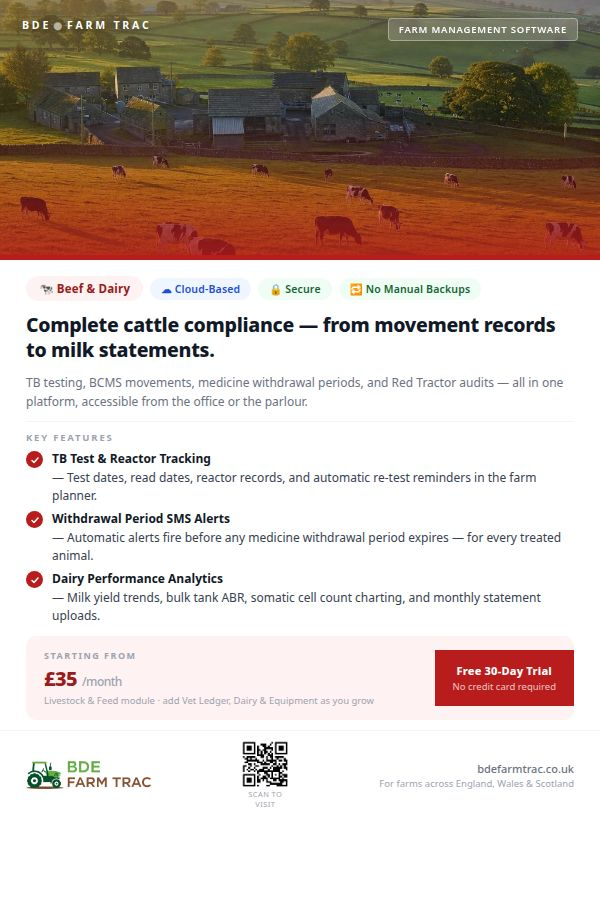
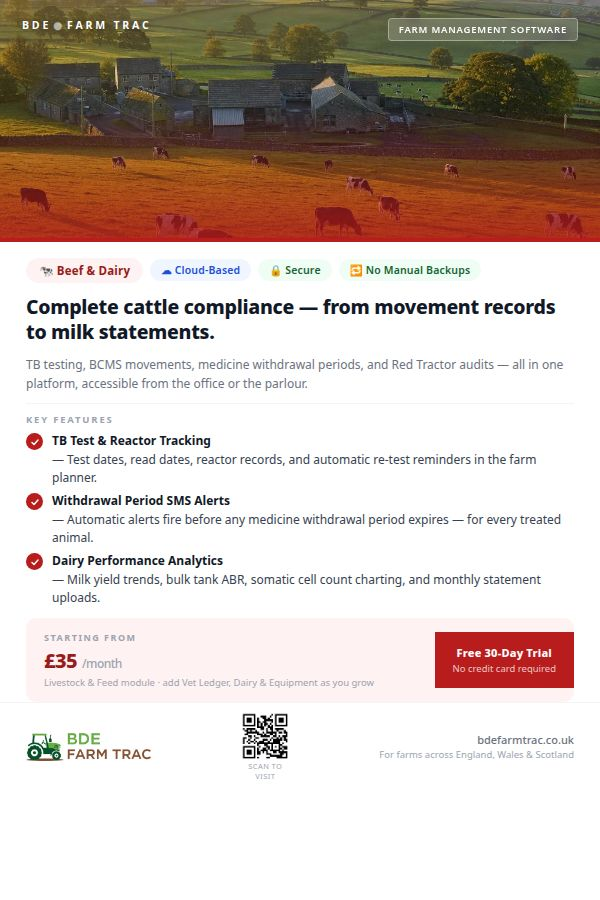
Update leaflet website assets and screenshots
Replit-Commit-Author: Agent

Changed region(s): [[0.0, 0.0, 1.0, 0.8711], [0.27, 0.7467, 0.63, 0.9022], [0.03, 0.8089, 0.24, 0.9022]]

diff --git a/artifacts/website/public/leaflets/arable-v2.html b/artifacts/website/public/leaflets/arable-v2.html
@@ -5,8 +5,8 @@
     <meta name="viewport" content="width=600">
     <style>
     *{box-sizing:border-box;margin:0;padding:0}
-    html,body{width:600px;background:#fff;font-family:-apple-system,'Helvetica Neue',Arial,sans-serif;-webkit-font-smoothing:antialiased}
-    .hero{position:relative;width:600px;height:255px;overflow:hidden}
+    html{width:600px;height:210mm;overflow:hidden}body{width:600px;height:100%;display:flex;flex-direction:column;overflow:hidden;background:#fff;font-family:-apple-system,'Helvetica Neue',Arial,sans-serif;-webkit-font-smoothing:antialiased}
+    .hero{position:relative;width:600px;height:275px;overflow:hidden}
     .hero img{width:100%;height:100%;object-fit:cover;object-position:center}
     .hero-grad{position:absolute;inset:0;background:linear-gradient(to bottom,rgba(0,0,0,.08) 0%,rgba(0,0,0,.02) 45%,#92400ECC 100%)}
     .wordmark{position:absolute;top:18px;left:22px;color:#fff;font-size:10.5px;font-weight:700;letter-spacing:2.8px;text-transform:uppercase;text-shadow:0 1px 6px rgba(0,0,0,.5)}
@@ -32,7 +32,7 @@
     .pricing-trial{background:#92400E;padding:13px 18px;text-align:center;min-width:130px}
     .pricing-trial-head{font-size:11px;font-weight:800;color:#fff;letter-spacing:.2px;margin-bottom:2px}
     .pricing-trial-sub{font-size:9.5px;color:rgba(255,255,255,.75)}
-    .footer{margin-top:10px;border-top:1px solid #F3F4F6;padding:9px 26px 12px;display:flex;align-items:center;justify-content:space-between}
+    .footer{margin-top:auto;border-top:1px solid #F3F4F6;padding:9px 26px 12px;display:flex;align-items:center;justify-content:space-between}
     .footer-logo{font-size:10.5px;font-weight:800;color:#2D6A2E;letter-spacing:1.5px;text-transform:uppercase}
     .footer-right{text-align:right}
     .footer-url{font-size:11px;color:#6B7280;font-weight:500}

diff --git a/artifacts/website/public/leaflets/beef-dairy-v2.html b/artifacts/website/public/leaflets/beef-dairy-v2.html
@@ -5,8 +5,8 @@
     <meta name="viewport" content="width=600">
     <style>
     *{box-sizing:border-box;margin:0;padding:0}
-    html,body{width:600px;background:#fff;font-family:-apple-system,'Helvetica Neue',Arial,sans-serif;-webkit-font-smoothing:antialiased}
-    .hero{position:relative;width:600px;height:255px;overflow:hidden}
+    html{width:600px;height:210mm;overflow:hidden}body{width:600px;height:100%;display:flex;flex-direction:column;overflow:hidden;background:#fff;font-family:-apple-system,'Helvetica Neue',Arial,sans-serif;-webkit-font-smoothing:antialiased}
+    .hero{position:relative;width:600px;height:275px;overflow:hidden}
     .hero img{width:100%;height:100%;object-fit:cover;object-position:center}
     .hero-grad{position:absolute;inset:0;background:linear-gradient(to bottom,rgba(0,0,0,.08) 0%,rgba(0,0,0,.02) 45%,#B91C1CCC 100%)}
     .wordmark{position:absolute;top:18px;left:22px;color:#fff;font-size:10.5px;font-weight:700;letter-spacing:2.8px;text-transform:uppercase;text-shadow:0 1px 6px rgba(0,0,0,.5)}
@@ -32,7 +32,7 @@
     .pricing-trial{background:#B91C1C;padding:13px 18px;text-align:center;min-width:130px}
     .pricing-trial-head{font-size:11px;font-weight:800;color:#fff;letter-spacing:.2px;margin-bottom:2px}
     .pricing-trial-sub{font-size:9.5px;color:rgba(255,255,255,.75)}
-    .footer{margin-top:10px;border-top:1px solid #F3F4F6;padding:9px 26px 12px;display:flex;align-items:center;justify-content:space-between}
+    .footer{margin-top:auto;border-top:1px solid #F3F4F6;padding:9px 26px 12px;display:flex;align-items:center;justify-content:space-between}
     .footer-logo{font-size:10.5px;font-weight:800;color:#2D6A2E;letter-spacing:1.5px;text-transform:uppercase}
     .footer-right{text-align:right}
     .footer-url{font-size:11px;color:#6B7280;font-weight:500}

diff --git a/artifacts/website/public/leaflets/contracting-v2.html b/artifacts/website/public/leaflets/contracting-v2.html
@@ -5,8 +5,8 @@
     <meta name="viewport" content="width=600">
     <style>
     *{box-sizing:border-box;margin:0;padding:0}
-    html,body{width:600px;background:#fff;font-family:-apple-system,'Helvetica Neue',Arial,sans-serif;-webkit-font-smoothing:antialiased}
-    .hero{position:relative;width:600px;height:255px;overflow:hidden}
+    html{width:600px;height:210mm;overflow:hidden}body{width:600px;height:100%;display:flex;flex-direction:column;overflow:hidden;background:#fff;font-family:-apple-system,'Helvetica Neue',Arial,sans-serif;-webkit-font-smoothing:antialiased}
+    .hero{position:relative;width:600px;height:275px;overflow:hidden}
     .hero img{width:100%;height:100%;object-fit:cover;object-position:center}
     .hero-grad{position:absolute;inset:0;background:linear-gradient(to bottom,rgba(0,0,0,.08) 0%,rgba(0,0,0,.02) 45%,#1D4ED8CC 100%)}
     .wordmark{position:absolute;top:18px;left:22px;color:#fff;font-size:10.5px;font-weight:700;letter-spacing:2.8px;text-transform:uppercase;text-shadow:0 1px 6px rgba(0,0,0,.5)}
@@ -32,7 +32,7 @@
     .pricing-trial{background:#1D4ED8;padding:13px 18px;text-align:center;min-width:130px}
     .pricing-trial-head{font-size:11px;font-weight:800;color:#fff;letter-spacing:.2px;margin-bottom:2px}
     .pricing-trial-sub{font-size:9.5px;color:rgba(255,255,255,.75)}
-    .footer{margin-top:10px;border-top:1px solid #F3F4F6;padding:9px 26px 12px;display:flex;align-items:center;justify-content:space-between}
+    .footer{margin-top:auto;border-top:1px solid #F3F4F6;padding:9px 26px 12px;display:flex;align-items:center;justify-content:space-between}
     .footer-logo{font-size:10.5px;font-weight:800;color:#2D6A2E;letter-spacing:1.5px;text-transform:uppercase}
     .footer-right{text-align:right}
     .footer-url{font-size:11px;color:#6B7280;font-weight:500}

diff --git a/artifacts/website/public/leaflets/mixed-v2.html b/artifacts/website/public/leaflets/mixed-v2.html
@@ -5,8 +5,8 @@
     <meta name="viewport" content="width=600">
     <style>
     *{box-sizing:border-box;margin:0;padding:0}
-    html,body{width:600px;background:#fff;font-family:-apple-system,'Helvetica Neue',Arial,sans-serif;-webkit-font-smoothing:antialiased}
-    .hero{position:relative;width:600px;height:255px;overflow:hidden}
+    html{width:600px;height:210mm;overflow:hidden}body{width:600px;height:100%;display:flex;flex-direction:column;overflow:hidden;background:#fff;font-family:-apple-system,'Helvetica Neue',Arial,sans-serif;-webkit-font-smoothing:antialiased}
+    .hero{position:relative;width:600px;height:275px;overflow:hidden}
     .hero img{width:100%;height:100%;object-fit:cover;object-position:center}
     .hero-grad{position:absolute;inset:0;background:linear-gradient(to bottom,rgba(0,0,0,.08) 0%,rgba(0,0,0,.02) 45%,#2D6A2ECC 100%)}
     .wordmark{position:absolute;top:18px;left:22px;color:#fff;font-size:10.5px;font-weight:700;letter-spacing:2.8px;text-transform:uppercase;text-shadow:0 1px 6px rgba(0,0,0,.5)}
@@ -32,7 +32,7 @@
     .pricing-trial{background:#2D6A2E;padding:13px 18px;text-align:center;min-width:130px}
     .pricing-trial-head{font-size:11px;font-weight:800;color:#fff;letter-spacing:.2px;margin-bottom:2px}
     .pricing-trial-sub{font-size:9.5px;color:rgba(255,255,255,.75)}
-    .footer{margin-top:10px;border-top:1px solid #F3F4F6;padding:9px 26px 12px;display:flex;align-items:center;justify-content:space-between}
+    .footer{margin-top:auto;border-top:1px solid #F3F4F6;padding:9px 26px 12px;display:flex;align-items:center;justify-content:space-between}
     .footer-logo{font-size:10.5px;font-weight:800;color:#2D6A2E;letter-spacing:1.5px;text-transform:uppercase}
     .footer-right{text-align:right}
     .footer-url{font-size:11px;color:#6B7280;font-weight:500}

diff --git a/artifacts/website/public/leaflets/sheep-goat-v2.html b/artifacts/website/public/leaflets/sheep-goat-v2.html
@@ -5,8 +5,8 @@
     <meta name="viewport" content="width=600">
     <style>
     *{box-sizing:border-box;margin:0;padding:0}
-    html,body{width:600px;background:#fff;font-family:-apple-system,'Helvetica Neue',Arial,sans-serif;-webkit-font-smoothing:antialiased}
-    .hero{position:relative;width:600px;height:255px;overflow:hidden}
+    html{width:600px;height:210mm;overflow:hidden}body{width:600px;height:100%;display:flex;flex-direction:column;overflow:hidden;background:#fff;font-family:-apple-system,'Helvetica Neue',Arial,sans-serif;-webkit-font-smoothing:antialiased}
+    .hero{position:relative;width:600px;height:275px;overflow:hidden}
     .hero img{width:100%;height:100%;object-fit:cover;object-position:center}
     .hero-grad{position:absolute;inset:0;background:linear-gradient(to bottom,rgba(0,0,0,.08) 0%,rgba(0,0,0,.02) 45%,#B45309CC 100%)}
     .wordmark{position:absolute;top:18px;left:22px;color:#fff;font-size:10.5px;font-weight:700;letter-spacing:2.8px;text-transform:uppercase;text-shadow:0 1px 6px rgba(0,0,0,.5)}
@@ -32,7 +32,7 @@
     .pricing-trial{background:#B45309;padding:13px 18px;text-align:center;min-width:130px}
     .pricing-trial-head{font-size:11px;font-weight:800;color:#fff;letter-spacing:.2px;margin-bottom:2px}
     .pricing-trial-sub{font-size:9.5px;color:rgba(255,255,255,.75)}
-    .footer{margin-top:10px;border-top:1px solid #F3F4F6;padding:9px 26px 12px;display:flex;align-items:center;justify-content:space-between}
+    .footer{margin-top:auto;border-top:1px solid #F3F4F6;padding:9px 26px 12px;display:flex;align-items:center;justify-content:space-between}
     .footer-logo{font-size:10.5px;font-weight:800;color:#2D6A2E;letter-spacing:1.5px;text-transform:uppercase}
     .footer-right{text-align:right}
     .footer-url{font-size:11px;color:#6B7280;font-weight:500}

diff --git a/artifacts/website/public/leaflets/viticulture-v2.html b/artifacts/website/public/leaflets/viticulture-v2.html
@@ -5,8 +5,8 @@
     <meta name="viewport" content="width=600">
     <style>
     *{box-sizing:border-box;margin:0;padding:0}
-    html,body{width:600px;background:#fff;font-family:-apple-system,'Helvetica Neue',Arial,sans-serif;-webkit-font-smoothing:antialiased}
-    .hero{position:relative;width:600px;height:255px;overflow:hidden}
+    html{width:600px;height:210mm;overflow:hidden}body{width:600px;height:100%;display:flex;flex-direction:column;overflow:hidden;background:#fff;font-family:-apple-system,'Helvetica Neue',Arial,sans-serif;-webkit-font-smoothing:antialiased}
+    .hero{position:relative;width:600px;height:275px;overflow:hidden}
     .hero img{width:100%;height:100%;object-fit:cover;object-position:center}
     .hero-grad{position:absolute;inset:0;background:linear-gradient(to bottom,rgba(0,0,0,.08) 0%,rgba(0,0,0,.02) 45%,#6D28D9CC 100%)}
     .wordmark{position:absolute;top:18px;left:22px;color:#fff;font-size:10.5px;font-weight:700;letter-spacing:2.8px;text-transform:uppercase;text-shadow:0 1px 6px rgba(0,0,0,.5)}
@@ -32,7 +32,7 @@
     .pricing-trial{background:#6D28D9;padding:13px 18px;text-align:center;min-width:130px}
     .pricing-trial-head{font-size:11px;font-weight:800;color:#fff;letter-spacing:.2px;margin-bottom:2px}
     .pricing-trial-sub{font-size:9.5px;color:rgba(255,255,255,.75)}
-    .footer{margin-top:10px;border-top:1px solid #F3F4F6;padding:9px 26px 12px;display:flex;align-items:center;justify-content:space-between}
+    .footer{margin-top:auto;border-top:1px solid #F3F4F6;padding:9px 26px 12px;display:flex;align-items:center;justify-content:space-between}
     .footer-logo{font-size:10.5px;font-weight:800;color:#2D6A2E;letter-spacing:1.5px;text-transform:uppercase}
     .footer-right{text-align:right}
     .footer-url{font-size:11px;color:#6B7280;font-weight:500}
